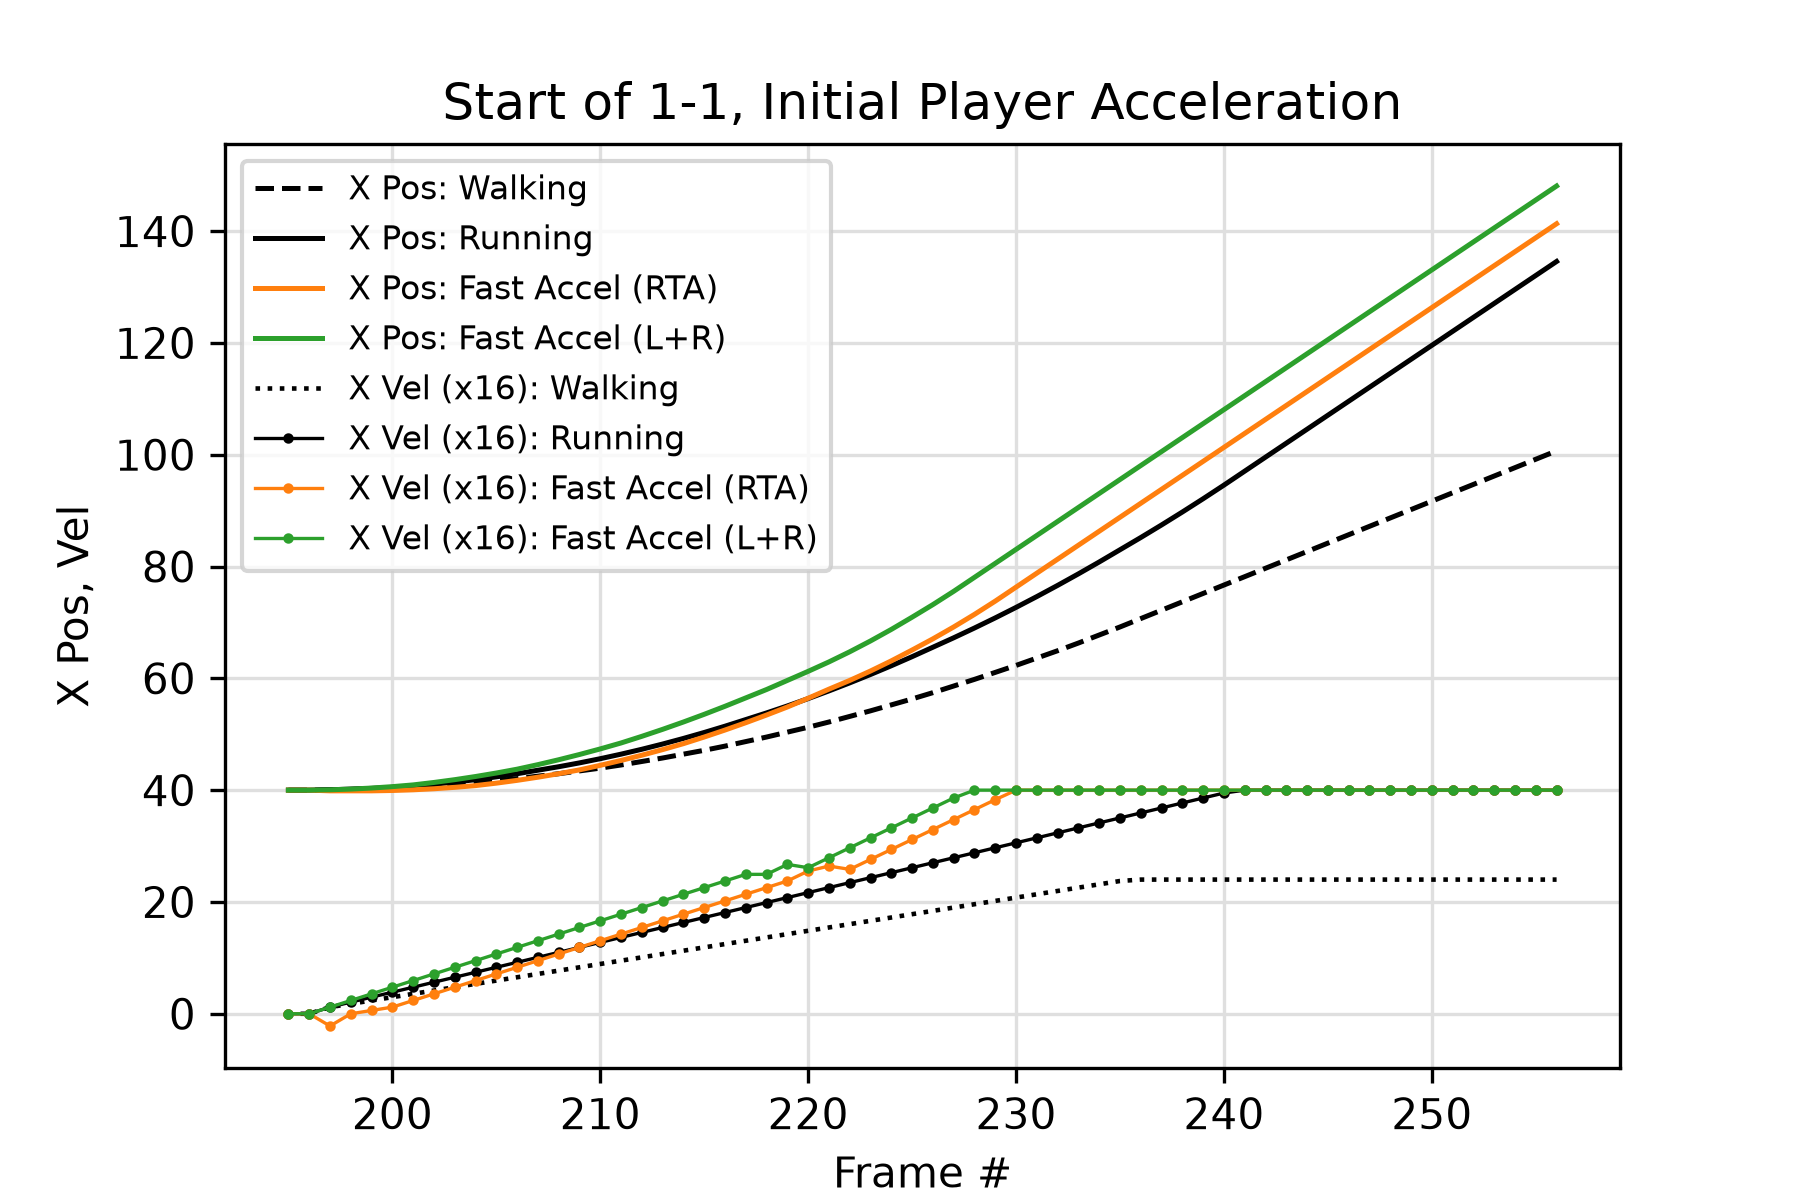
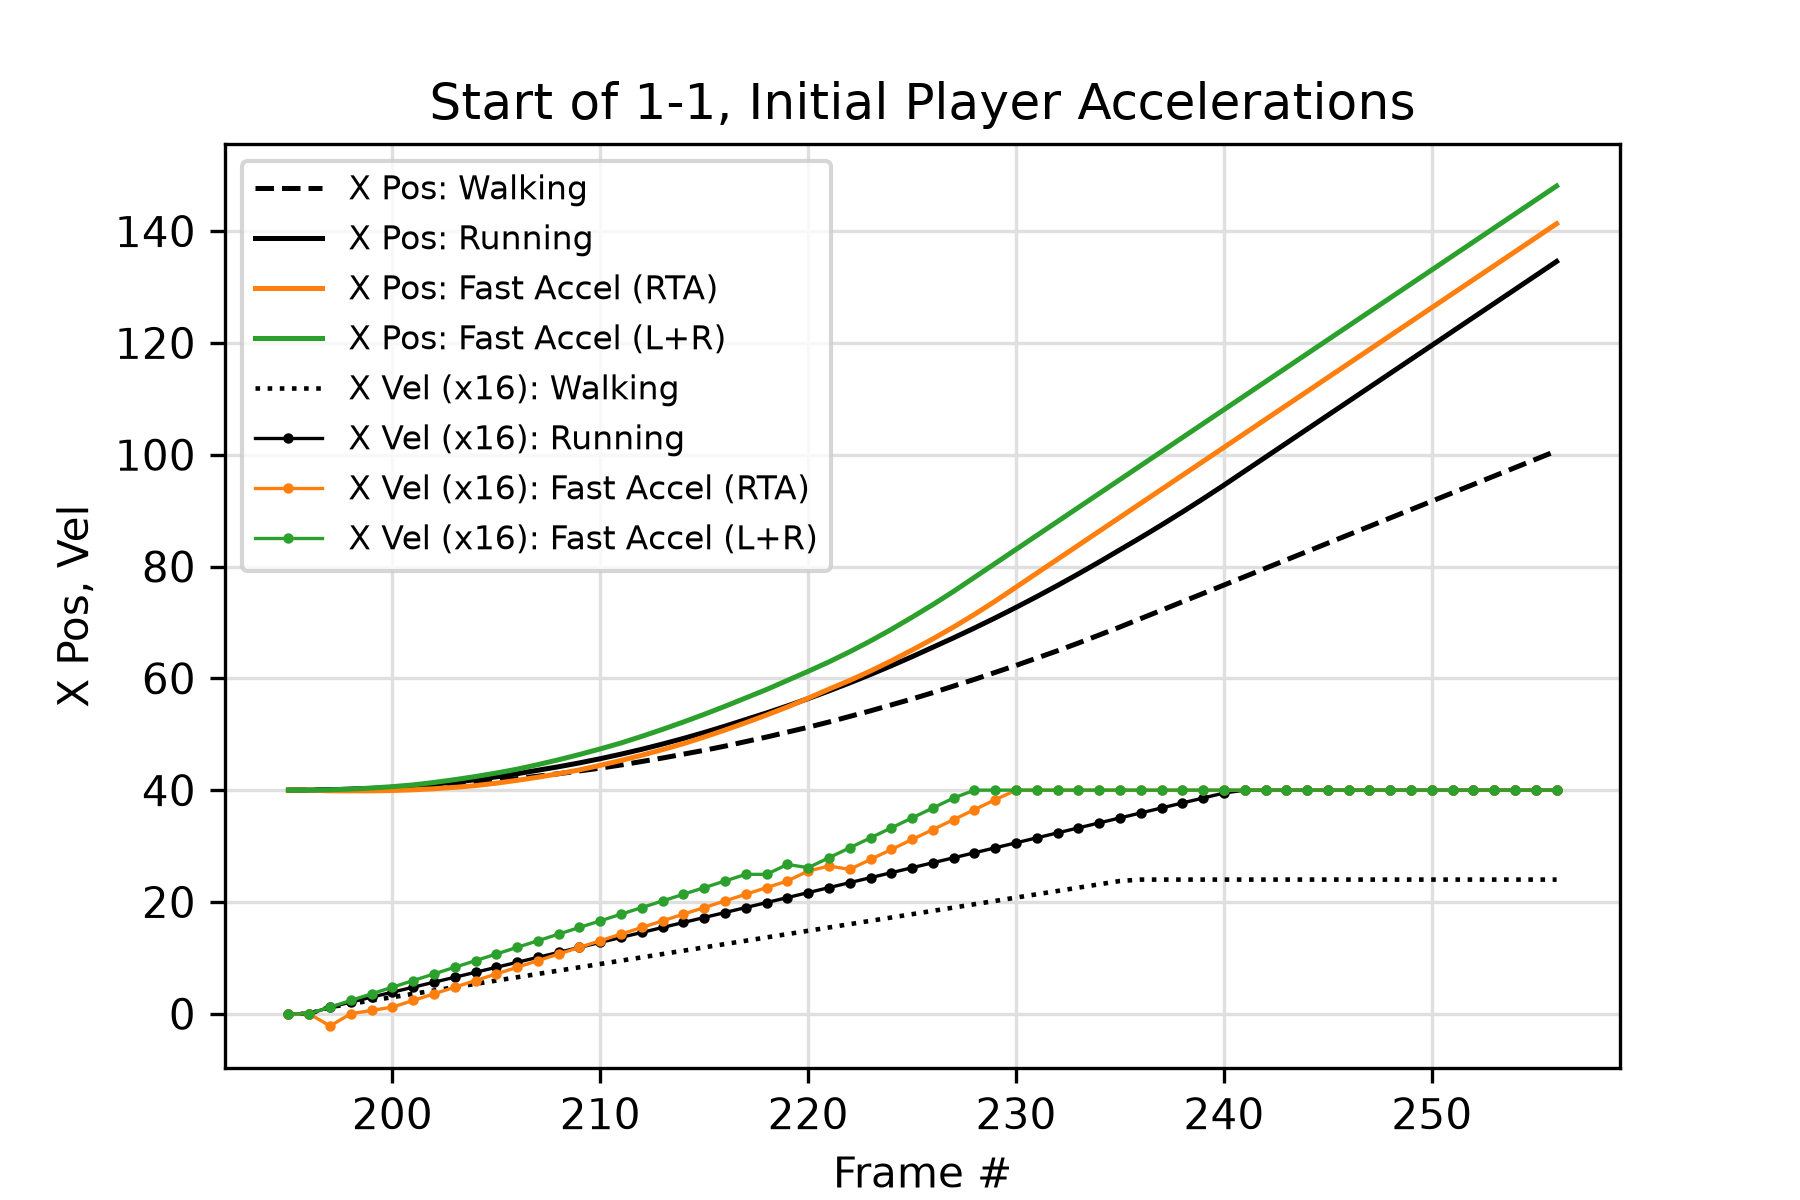
Formatting tweak

Changed region(s): [[0.2178, 0.0617, 0.7778, 0.1233]]

diff --git a/00_ProofOfConcept/smb1_data_post-processor_v1.py b/00_ProofOfConcept/smb1_data_post-processor_v1.py
@@ -116,7 +116,7 @@ plt.plot(
 
 
 # Format plot
-plt.title("Start of 1-1, Initial Player Acceleration")
+plt.title("Start of 1-1, Initial Player Accelerations")
 plt.xlabel("Frame #")
 plt.ylabel("X Pos, Vel")
 plt.legend()
